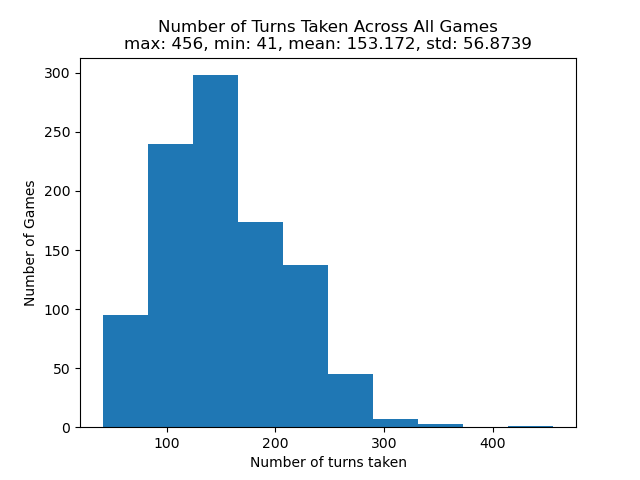
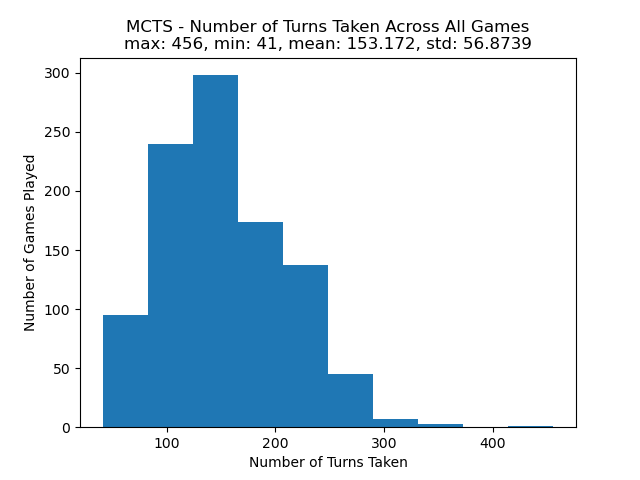
Update results images

diff --git a/test.py b/test.py
@@ -242,14 +242,14 @@ def log_2_neg(tile):
         return 0
     return (-1)*(int(math.log(math.fabs(tile), 2)))
 
-def visualize_data(turns, max_tiles, min_tiles, piece_distributions, filename):
+def visualize_data(turns, max_tiles, min_tiles, piece_distributions, filename, policy="Random"):
     plt.figure()
 
     # Plot histogram of turns
     plt.hist(turns)
-    plt.title(f'Number of Turns Taken Across All Games\nmax: {max(turns)}, min: {min(turns)}, mean: {round(np.mean(turns), 4)}, std: {round(np.std(turns), 4)}')
-    plt.xlabel("Number of turns taken")
-    plt.ylabel("Number of Games")
+    plt.title(f'{policy} - Number of Turns Taken Across All Games\nmax: {max(turns)}, min: {min(turns)}, mean: {round(np.mean(turns), 4)}, std: {round(np.std(turns), 4)}')
+    plt.xlabel("Number of Turns Taken")
+    plt.ylabel("Number of Games Played")
     plt.savefig(filename + "_num_turns")
 
     # Plot histogram of max tiles
@@ -264,9 +264,9 @@ def visualize_data(turns, max_tiles, min_tiles, piece_distributions, filename):
     plt.figure()
     min_tiles = [int(log_2_neg(min_tile)) for min_tile in min_tiles]
     plt.hist(min_tiles)
-    plt.title(f'Log(Min tile, 2) value in each game\nmax: {max(min_tiles)}, min: {min(min_tiles)}, mean: {round(np.mean(min_tiles), 4)}, std: {round(np.std(min_tiles), 4)}')
-    plt.xlabel("Minimum Value Tile ((-1) * log2(abs(min_tile)))")
-    plt.ylabel("Number of Games")
+    plt.title(f'Min Value Tile Across All Games\nmax: {max(min_tiles)}, min: {min(min_tiles)}, mean: {round(np.mean(min_tiles), 4)}, std: {round(np.std(min_tiles), 4)}')
+    plt.xlabel("Minimum Value Tile (log2 of value with 0s and negatives representation")
+    plt.ylabel("Number of Games Played")
     plt.savefig(filename + "_min_tile")
 
     # Plot bar chart of piece distributions
@@ -274,9 +274,9 @@ def visualize_data(turns, max_tiles, min_tiles, piece_distributions, filename):
     all_tiles = [log_2_neg(tile) for dist in piece_distributions for tile in dist]
     all_counts = [count for dist in piece_distributions for count in dist.values()]
     plt.bar(all_tiles, all_counts)
-    plt.xlabel("Tile Value (log2 with negatives representation)")
+    plt.xlabel("Tile Value (log2 of value with 0s and negatives representation)")
     plt.ylabel("Number of Times Counted")
-    plt.title(f'Tile distributions across all games')
+    plt.title(f'Tile Distributions Across All Games')
     plt.savefig(filename + "_tile_dist")
 
     # Show the plot
@@ -304,16 +304,16 @@ def main():
     print(f"Running random, QNN, and MCTS policies on {n} games...")
     print(f"\nTesting random on {n} runs...")
 
-    turns_random, max_tiles_random, min_tiles_random, piece_distributions_random = sample_random_games(n)
+    # turns_random, max_tiles_random, min_tiles_random, piece_distributions_random = sample_random_games(n)
+    # turns_random, max_tiles_random, min_tiles_random, piece_distributions_random = csv_to_arrays("./Data/random_1000_data.csv")
     df_random = pd.DataFrame({
         'turns': turns_random,
         'max_tiles': max_tiles_random,
         'min_tiles': min_tiles_random,
         'piece_distributions': piece_distributions_random
     })
-    # turns_random, max_tiles_random, min_tiles_random, piece_distributions_random = csv_to_arrays("./Data/random_1000_data.csv")
-    visualize_data(turns_random, max_tiles_random, min_tiles_random, piece_distributions_random, f"./Results/random_{n}")
-    df_random.to_csv(f'./Data/random_{n}_data.csv', index=False)
+    visualize_data(turns_random, max_tiles_random, min_tiles_random, piece_distributions_random, f"./Results/random_{n}", policy="Random")
+    df_random.to_csv(f'./Results/random_{n}_data.csv', index=False)
     print("Random test complete")
 
     print(f"\nTesting QNN...")
@@ -328,12 +328,13 @@ def main():
         'min_tiles': min_tiles_qnn,
         'piece_distributions': piece_distributions_qnn
     })
-    visualize_data(turns_qnn, max_tiles_qnn, min_tiles_qnn, piece_distributions_qnn, f"./Results/qnn_{n}")
+    visualize_data(turns_qnn, max_tiles_qnn, min_tiles_qnn, piece_distributions_qnn, f"./Results/qnn_{n}", policy="QNN")
     df_qnn.to_csv(f'./Results/qnn_{n}_data.csv', index=False)
     print("QNN test complete")
 
     print(f"\nTesting MCTS...")
     print(f"Testing MCTS on {n} runs...")
+    # turns_mcts, max_tiles_mcts, min_tiles_mcts, piece_distributions_mcts = csv_to_arrays("./Data/mcts_1000_data.csv")
     turns_mcts, max_tiles_mcts, min_tiles_mcts, piece_distributions_mcts = sample_mcts_games(n)
     df_mcts = pd.DataFrame({
         'turns': turns_mcts,
@@ -341,8 +342,7 @@ def main():
         'min_tiles': min_tiles_mcts,
         'piece_distributions': piece_distributions_mcts
     })
-    # turns_mcts, max_tiles_mcts, min_tiles_mcts, piece_distributions_mcts = csv_to_arrays("./Data/mcts_1000_data.csv")
-    visualize_data(turns_mcts, max_tiles_mcts, min_tiles_mcts, piece_distributions_mcts, f"./Results/mcts_{n}")
+    visualize_data(turns_mcts, max_tiles_mcts, min_tiles_mcts, piece_distributions_mcts, f"./Results/mcts_{n}", policy="MCTS")
     df_mcts.to_csv(f'./Results/mcts_{n}_data.csv', index=False)
     print("MCTS test complete")
 
